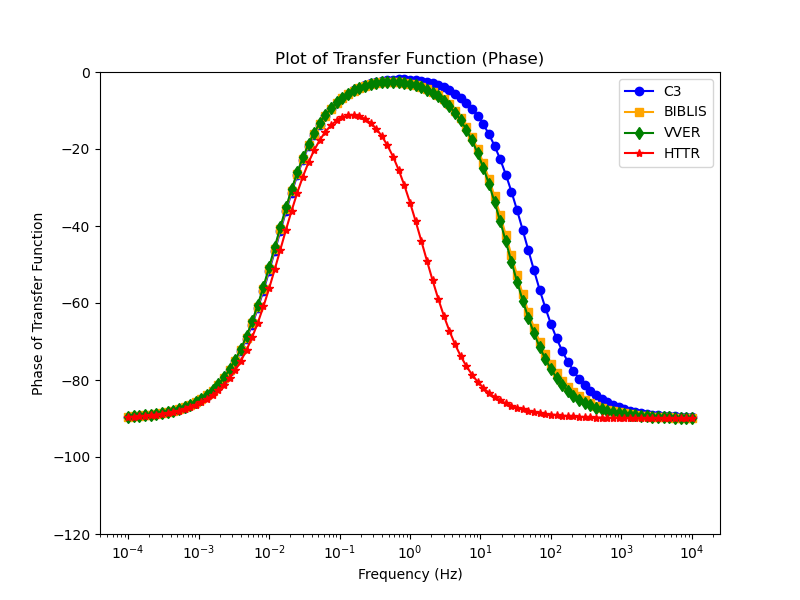
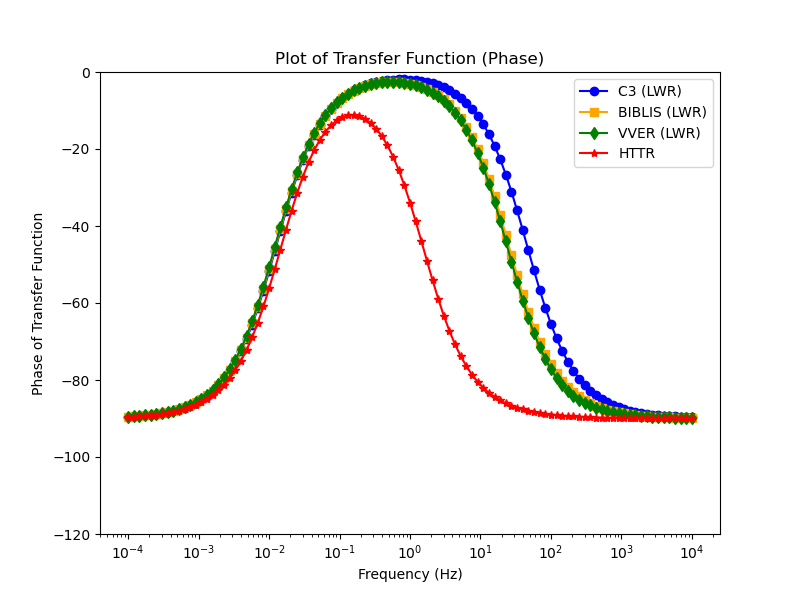
add label to ZPRTF

Changed region(s): [[0.7188, 0.12, 0.875, 0.27]]

diff --git a/OUTPUTS/TRANSFER_FUNCTION_ANALYSIS_3D.py b/OUTPUTS/TRANSFER_FUNCTION_ANALYSIS_3D.py
@@ -64,9 +64,9 @@ freq = np.logspace(-4, 4, num=101)
 # Plotting magnitude
 plt.clf()  # Clear the current figure
 plt.figure(figsize=(8, 6))  # Create a new figure
-plt.plot(freq, abs(G0_PWR_array), marker='o', label="PWR", color='blue')
-plt.plot(freq, abs(G0_Langenbuch_array), marker='s', label="Langenbuch", color='orange')
-plt.plot(freq, abs(G0_VVER_array), marker='d', label="VVER", color='green')
+plt.plot(freq, abs(G0_PWR_array), marker='o', label="PWR (LWR)", color='blue')
+plt.plot(freq, abs(G0_Langenbuch_array), marker='s', label="Langenbuch (LWR)", color='orange')
+plt.plot(freq, abs(G0_VVER_array), marker='d', label="VVER (LWR)", color='green')
 plt.plot(freq, abs(G0_HTTR_array), marker='*', label="HTTR", color='red')
 plt.xscale('log')
 plt.yscale('log')
@@ -79,9 +79,9 @@ plt.savefig(f'Transfer_Function_3D_Comparison_Magnitude.png')
 # Plotting magnitude
 plt.clf()  # Clear the current figure
 plt.figure(figsize=(8, 6))  # Create a new figure
-plt.plot(freq, np.degrees(np.angle(G0_PWR_array)), marker='o', label="PWR", color='blue')
-plt.plot(freq, np.degrees(np.angle(G0_Langenbuch_array)), marker='s', label="Langenbuch", color='orange')
-plt.plot(freq, np.degrees(np.angle(G0_VVER_array)), marker='d', label="VVER", color='green')
+plt.plot(freq, np.degrees(np.angle(G0_PWR_array)), marker='o', label="PWR (LWR)", color='blue')
+plt.plot(freq, np.degrees(np.angle(G0_Langenbuch_array)), marker='s', label="Langenbuch (LWR)", color='orange')
+plt.plot(freq, np.degrees(np.angle(G0_VVER_array)), marker='d', label="VVER (LWR)", color='green')
 plt.plot(freq, np.degrees(np.angle(G0_HTTR_array)), marker='*', label="HTTR", color='red')
 plt.xscale('log')
 plt.ylim(-120, 0)

diff --git a/OUTPUTS/TRANSFER_FUNCTION_ANALYSIS_2D.py b/OUTPUTS/TRANSFER_FUNCTION_ANALYSIS_2D.py
@@ -64,9 +64,9 @@ freq = np.logspace(-4, 4, num=101)
 # Plotting magnitude
 plt.clf()  # Clear the current figure
 plt.figure(figsize=(8, 6))  # Create a new figure
-plt.plot(freq, abs(G0_C3_array), marker='o', label="C3", color='blue')
-plt.plot(freq, abs(G0_BIBLIS_array), marker='s', label="BIBLIS", color='orange')
-plt.plot(freq, abs(G0_VVER_array), marker='d', label="VVER", color='green')
+plt.plot(freq, abs(G0_C3_array), marker='o', label="C3 (LWR)", color='blue')
+plt.plot(freq, abs(G0_BIBLIS_array), marker='s', label="BIBLIS (LWR)", color='orange')
+plt.plot(freq, abs(G0_VVER_array), marker='d', label="VVER (LWR)", color='green')
 plt.plot(freq, abs(G0_HTTR_array), marker='*', label="HTTR", color='red')
 plt.xscale('log')
 plt.yscale('log')
@@ -79,9 +79,9 @@ plt.savefig(f'Transfer_Function_2D_Comparison_Magnitude.png')
 # Plotting magnitude
 plt.clf()  # Clear the current figure
 plt.figure(figsize=(8, 6))  # Create a new figure
-plt.plot(freq, np.degrees(np.angle(G0_C3_array)), marker='o', label="C3", color='blue')
-plt.plot(freq, np.degrees(np.angle(G0_BIBLIS_array)), marker='s', label="BIBLIS", color='orange')
-plt.plot(freq, np.degrees(np.angle(G0_VVER_array)), marker='d', label="VVER", color='green')
+plt.plot(freq, np.degrees(np.angle(G0_C3_array)), marker='o', label="C3 (LWR)", color='blue')
+plt.plot(freq, np.degrees(np.angle(G0_BIBLIS_array)), marker='s', label="BIBLIS (LWR)", color='orange')
+plt.plot(freq, np.degrees(np.angle(G0_VVER_array)), marker='d', label="VVER (LWR)", color='green')
 plt.plot(freq, np.degrees(np.angle(G0_HTTR_array)), marker='*', label="HTTR", color='red')
 plt.xscale('log')
 plt.ylim(-120, 0)
